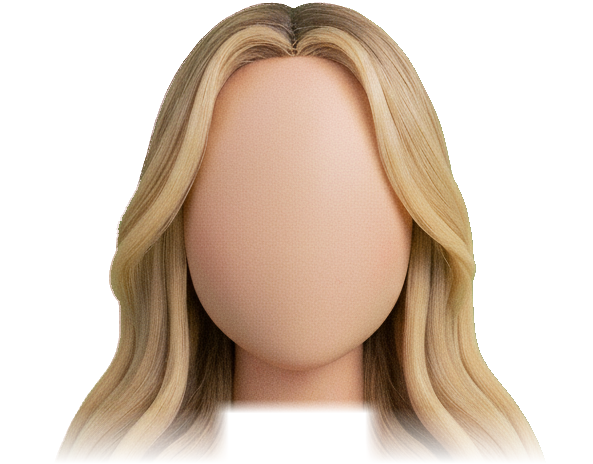
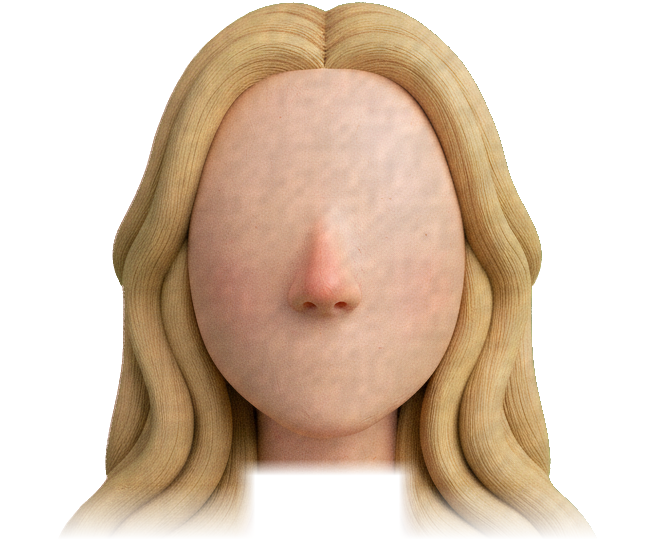
feat(kit-plastilina): nariz modelada y textura de plastilina real
- prompts de generacion: plastilina hecha a mano (huellas, grumos, marcas), la cabeza lleva nariz
- arcillar(): relieve de grumos a tres escalas y huellas de dedo iluminados desde arriba a la izquierda, aplicado a cada pieza del kit
- cabeza y anclas recalibradas para la nueva cabeza

diff --git a/scripts/kit-plastilina-armar.js b/scripts/kit-plastilina-armar.js
@@ -7,25 +7,49 @@ const fs = require('fs'), path = require('path');
 const { createCanvas } = require('@napi-rs/canvas');
 const { quitarFondo } = require('../lienzo/recorte');
 const CRUDO = path.join(__dirname, '..', 'data-motor', 'kit', 'plastilina-crudo'), SALIDA = path.join(__dirname, '..', 'assets', 'kit-plastilina');
+// ── Textura de PLASTILINA: relieve de grumos a tres escalas y huellas de dedo (crestas concéntricas) iluminados desde arriba a la izquierda,
+// más un grano fino. Se aplica a cada pieza ya recortada, solo donde hay píxeles opacos; no toca el alfa.
+function valor(w, h, paso, semilla) { // ruido de valor suavizado (0..1)
+  let s = semilla * 9301 + 49297; const rnd = () => (s = (s * 1664525 + 1013904223) >>> 0) / 4294967296, gw = Math.ceil(w / paso) + 2, gh = Math.ceil(h / paso) + 2, g = new Float32Array(gw * gh).map(rnd), o = new Float32Array(w * h);
+  for (let y = 0; y < h; y++) { const fy = y / paso, y0 = Math.floor(fy), ty = fy - y0, sy = ty * ty * (3 - 2 * ty); for (let x = 0; x < w; x++) { const fx = x / paso, x0 = Math.floor(fx), tx = fx - x0, sx = tx * tx * (3 - 2 * tx);
+    const a = g[y0 * gw + x0], b = g[y0 * gw + x0 + 1], c = g[(y0 + 1) * gw + x0], d = g[(y0 + 1) * gw + x0 + 1]; o[y * w + x] = (a + (b - a) * sx) * (1 - sy) + (c + (d - c) * sx) * sy; } }
+  return o;
+}
+function arcillar(c, semilla = 1, fuerza = 1, conHuellas = true) {
+  const w = c.width, h = c.height, ctx = c.getContext('2d'), id = ctx.getImageData(0, 0, w, h), d = id.data, n1 = valor(w, h, 9, semilla), n2 = valor(w, h, 26, semilla + 11), n3 = valor(w, h, 80, semilla + 23), alt = new Float32Array(w * h);
+  for (let i = 0; i < w * h; i++) alt[i] = n1[i] * 0.2 + n2[i] * 0.45 + n3[i] * 0.35;
+  let s = semilla * 7919 + 17; const rnd = () => (s = (s * 1664525 + 1013904223) >>> 0) / 4294967296, huellas = conHuellas ? Math.max(6, Math.round(w * h / 140000)) : 0;
+  for (let k = 0; k < huellas; k++) { // cada huella: crestas concéntricas deformadas, más marcadas en el centro
+    const cx = rnd() * w, cy = rnd() * h, R = 18 + rnd() * 26, per = 5 + rnd() * 3, fase = rnd() * 6.28, ex = 0.7 + rnd() * 0.5, x0 = Math.max(0, Math.floor(cx - R)), x1 = Math.min(w - 1, Math.ceil(cx + R)), y0 = Math.max(0, Math.floor(cy - R)), y1 = Math.min(h - 1, Math.ceil(cy + R));
+    for (let y = y0; y <= y1; y++) for (let x = x0; x <= x1; x++) { const dx = (x - cx) * ex, dy = y - cy, r = Math.hypot(dx, dy); if (r > R) continue; alt[y * w + x] += Math.sin(r / per * 6.283 + fase + n2[y * w + x] * 9 + n1[y * w + x] * 4) * 0.28 * (1 - r / R) ** 1.6; }
+  }
+  const o = new Uint8ClampedArray(d);
+  for (let y = 2; y < h - 2; y++) for (let x = 2; x < w - 2; x++) {
+    const i = y * w + x, p = i * 4; if (d[p + 3] < 20) continue;
+    const luz = (alt[i - w - 1] + alt[i - 1] * 0.5 + alt[i - w] * 0.5) - (alt[i + w + 1] + alt[i + 1] * 0.5 + alt[i + w] * 0.5), grano = (n1[i] - 0.5) * 0.05, k = 1 + (luz * 0.34 + grano) * fuerza;
+    o[p] = Math.max(0, Math.min(255, d[p] * k)); o[p + 1] = Math.max(0, Math.min(255, d[p + 1] * k)); o[p + 2] = Math.max(0, Math.min(255, d[p + 2] * k));
+  }
+  id.data.set(o); ctx.putImageData(id, 0, 0); return c;
+}
 const BASE = { tol: 40, suave: 30, margen: 2, matiz: 28, sat: 0.18, limpiarGlobal: false };
 // nombre de salida ← [archivo crudo elegido a ojo, opciones del recorte]. El vestido verde de la gala va sobre fondo azul: matiz estrecho para no comerse el vestido.
 const ELEGIDAS = {
-  'cuerpo-bastonera': ['cuerpo-reposo-2'], 'cuerpo-bastonera-celebrar': ['cuerpo-celebrar-2'], 'cuerpo-bastonera-senalar': ['cuerpo-senalar-2'],
-  'cuerpo-gala': ['cuerpo-gala-3', { matiz: 9, sat: 0.4, tol: 28 }], corona: ['corona-1'], baston: ['baston-1'], 'guante-pulgar': ['mano-pulgar-1'], 'guante-abierto': ['mano-abierta-1'],
+  'cuerpo-bastonera': ['cuerpo-reposo-1'], 'cuerpo-bastonera-celebrar': ['cuerpo-celebrar-1'], 'cuerpo-bastonera-senalar': ['cuerpo-senalar-2'],
+  'cuerpo-gala': ['cuerpo-gala-1', { matiz: 9, sat: 0.4, tol: 28 }], corona: ['corona-3'], baston: ['baston-2'], 'guante-pulgar': ['mano-pulgar-1'], 'guante-abierto': ['mano-abierta-1'],
 };
 // Cabeza: se corta a CORTE del alto (justo bajo el cuello, sin pecho) y los últimos FUNDIDO del recorte se desvanecen. La caja de la cara y las
 // anclas son fracciones de la imagen recortada, medidas sobre una rejilla.
-const CABEZA = { crudo: 'cabeza-2', corte: 0.56, fundido: 0.12, cuelloDesde: 0.86, cuelloAncho: 0.115, // cuelloDesde: fracción del alto bajo la cual se quita el cuello; cuelloAncho: media anchura de la columna quitada
-  libre: { caja: { cx: 0.5, cy: 0.47, w: 0.38, h: 0.70 }, tope: 0.82, limpia: true, cuelloK: -0.05 },
-  anclas: { ojoY: -0.10, ojoDx: 0.24, ojoR: 0.062, bocaY: 0.243, bocaAncho: 0.2, cejaY: -0.13 } };
+const CABEZA = { crudo: 'cabeza-2', corte: 0.62, fundido: 0.10, cuelloDesde: 0.85, cuelloAncho: 0.11, // cuelloDesde: fracción del alto bajo la cual se quita el cuello; cuelloAncho: media anchura de la columna quitada
+  libre: { caja: { cx: 0.5, cy: 0.4715, w: 0.42, h: 0.691 }, tope: 0.817, limpia: true, cuelloK: -0.05 },
+  anclas: { ojoY: -0.06, ojoDx: 0.30, ojoR: 0.065, bocaY: 0.316, bocaAncho: 0.15, cejaY: -0.12 } };
 (async () => {
   fs.mkdirSync(SALIDA, { recursive: true });
   for (const [salida, [crudo, op]] of Object.entries(ELEGIDAS)) {
     const c = await quitarFondo(path.join(CRUDO, crudo + '.png'), { ...BASE, ...(op || {}) });
-    fs.writeFileSync(path.join(SALIDA, salida + '.png'), c.toBuffer('image/png')); console.log(salida, c.width + 'x' + c.height);
+    arcillar(c, Object.keys(ELEGIDAS).indexOf(salida) + 1); fs.writeFileSync(path.join(SALIDA, salida + '.png'), c.toBuffer('image/png')); console.log(salida, c.width + 'x' + c.height);
   }
   const full = await quitarFondo(path.join(CRUDO, CABEZA.crudo + '.png'), BASE), alto = Math.round(full.height * CABEZA.corte), c = createCanvas(full.width, alto), x = c.getContext('2d');
-  x.drawImage(full, 0, 0, full.width, alto, 0, 0, full.width, alto);
+  arcillar(full, 99, 1, false); x.drawImage(full, 0, 0, full.width, alto, 0, 0, full.width, alto);
   const f = Math.round(alto * CABEZA.fundido), id = x.getImageData(0, alto - f, full.width, f), d = id.data;
   for (let j = 0; j < f; j++) for (let i = 0; i < full.width; i++) d[(j * full.width + i) * 4 + 3] *= 1 - (j + 1) / f;
   x.putImageData(id, 0, alto - f);

diff --git a/scripts/kit-plastilina-generar.js b/scripts/kit-plastilina-generar.js
@@ -9,11 +9,11 @@ const pieza = process.argv[2], N = Number(arg('--n', 3));
 const REF = arg('--ref', path.join(__dirname, '..', 'data-motor', 'kit', 'crudo', 'estilo-plastilina.png'));
 const SALIDA = path.join(__dirname, '..', 'data-motor', 'kit', 'plastilina-crudo');
 const FONDO = { verde: 'plain pure bright green (#00FF00) chroma-key background', azul: 'plain pure bright blue (#0033FF) chroma-key background' };
-const ESTILO = 'Claymation / plasticine stop-motion style: soft modeled clay, subtle fingerprints, matte-satin clay surface, rounded chunky forms, soft studio lighting.';
+const ESTILO = 'Look: REAL hand-made plasticine, like Aardman / Play-Doh stop-motion models: clearly visible fingerprints and thumb marks pressed into the surface, a slightly lumpy uneven hand-sculpted surface, tiny tool marks, soft seams where clay pieces were joined, imperfect rounded shapes, matte clay with a faint sheen. It must NOT look like a smooth 3D render or an airbrushed doll.';
 const UNIFORME = 'a white double-breasted marching-band jacket with a red stand collar, red trim and gold buttons and gold shoulder fringe, a short red pleated skirt with gold trim, white tights and red knee-high boots';
 const SIN_CABEZA = 'The figure is shown from the NECK DOWN ONLY: NO head and NO hair at all; the neck is a short clay stub that ends in a flat horizontal cut at the very top of the image, like a ghost-mannequin product photo. Full body down to the feet, front view, centered, nothing cropped at the sides or bottom.';
 const PIEZAS = {
-  cabeza: { fondo: 'verde', ref: true, p: `Using the reference character as identity and style, produce the same character's head, hair and neck, front view, centered. Long wavy blonde hair with a middle part, falling in front of both shoulders. The neck is long and ends at the collarbones. IMPORTANT: the face is completely BLANK: NO eyes, NO eyebrows, NO eyelids, NO mouth, NO lips; only smooth clay skin with the modeled nose, cheeks, ears and chin. ${ESTILO}` },
+  cabeza: { fondo: 'verde', ref: true, p: `Using the reference character as identity and style, produce the same character's head, hair and neck, front view, centered. Long wavy blonde hair with a middle part, falling in front of both shoulders. The neck is long and ends at the collarbones. IMPORTANT: the face has NO eyes, NO eyebrows, NO eyelids, NO mouth and NO lips (blank clay skin there), BUT it DOES have a clearly visible hand-sculpted clay NOSE (rounded tip, two small nostril dents, visible bridge) plus cheeks, ears and chin. ${ESTILO}` },
   'cuerpo-reposo': { fondo: 'verde', ref: true, p: `Using the reference character's clay skin tone and clay style, produce a clay character body wearing ${UNIFORME}. Relaxed standing pose, arms hanging at the sides with open hands. ${SIN_CABEZA} ${ESTILO}` },
   'cuerpo-celebrar': { fondo: 'verde', ref: true, p: `Using the reference character's clay skin tone and clay style, produce a clay character body wearing ${UNIFORME}. Celebrating pose: both arms raised up and out in a V shape, open hands, weight on both feet. ${SIN_CABEZA} ${ESTILO}` },
   'cuerpo-senalar': { fondo: 'verde', ref: true, p: `Using the reference character's clay skin tone and clay style, produce a clay character body wearing ${UNIFORME}. Pointing pose: one arm extended straight out horizontally to the side with the index finger pointing, the other arm relaxed at the side. ${SIN_CABEZA} ${ESTILO}` },
